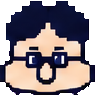
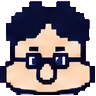
fix(sprites): 원본 외곽선과 색을 보존해 캐릭터 시트 재추출
형섭·경섭·빠맨·쥰희 이동 시트와 초상화를 다시 추출하고, 셀 가장자리 연결 배경 제거 및 최근접 변환으로 도트 손상을 막는다. 방향/캐릭터 매핑과 브라우저 재현 테스트를 추가한다.

Constraint: Preserve supplied character art and existing game IDs/render scale
Confidence: high
Scope-risk: narrow
Not-tested: Legacy smoke scenario is stale (removed merchant script and house map); targeted sprite browser checks pass

diff --git a/tools/sprites/slice_sheet.py b/tools/sprites/slice_sheet.py
@@ -8,8 +8,10 @@
 필요: pip install pillow numpy
 """
 import sys
+from collections import deque
 from PIL import Image
 import numpy as np
+import numpy.typing as npt
 
 # 시트는 '2x 해상도'로 저장한다 (게임은 논리 320x240 을 2배로 렌더). 원본 셀을 DOWN 분의 1로 축소해 그대로 쓴다.
 CELL_TARGET_H = 100      # 시트 '셀' 높이를 이 값(2x px)에 맞춘다 → 기준 시트(셀 199px)는 정확히 1/2 (원본 누끼 그대로). 다른 시트도 같은 비율
@@ -39,18 +41,30 @@ def detect_grid(im):
 EDGE_TRIM = 4            # 셀 테두리 잔선 제거(px)
 
 
-def key_cell(cell):
-    """셀 배경(보라) 제거 → RGBA (테두리 EDGE_TRIM px 는 잘라낸다)"""
+def key_cell(cell: npt.NDArray[np.int64]) -> Image.Image:
+    """가장자리에 연결된 배경만 제거하고 내부 색과 외곽선은 보존한다."""
     cell = cell[EDGE_TRIM:-EDGE_TRIM, EDGE_TRIM:-EDGE_TRIM]
     edge = np.concatenate([cell[2:14, 2:14].reshape(-1, 3), cell[-14:-2, 2:14].reshape(-1, 3),
                            cell[2:14, -14:-2].reshape(-1, 3), cell[-14:-2, -14:-2].reshape(-1, 3)])
     bg = np.median(edge, 0)
     d = np.abs(cell - bg).sum(2)
-    alpha = (d > 90)                              # 하드 누끼 (보라 배경 + 흐린 헤일로 제거)
-    # 1px 침식: 외곽선 바깥의 보라빛 번짐 픽셀을 떼어낸다
-    er = alpha.copy()
-    er[1:, :] &= alpha[:-1, :]; er[:-1, :] &= alpha[1:, :]; er[:, 1:] &= alpha[:, :-1]; er[:, :-1] &= alpha[:, 1:]
-    alpha = er.astype(float)
+    purple_fringe = (cell[..., 0] > cell[..., 1] + 20) & (cell[..., 2] > cell[..., 0] + 20) & (d <= 240)
+    background = (d <= 90) | purple_fringe
+    height, width = background.shape
+    alpha = np.ones((height, width), dtype=np.bool_)
+    pending: deque[tuple[int, int]] = deque()
+    border = [(y, x) for y in range(height) for x in (0, width - 1)]
+    border += [(y, x) for x in range(width) for y in (0, height - 1)]
+    for y, x in border:
+        if background[y, x] and alpha[y, x]:
+            alpha[y, x] = False
+            pending.append((y, x))
+    while pending:
+        y, x = pending.popleft()
+        for ny, nx in ((y - 1, x), (y + 1, x), (y, x - 1), (y, x + 1)):
+            if 0 <= ny < height and 0 <= nx < width and background[ny, nx] and alpha[ny, nx]:
+                alpha[ny, nx] = False
+                pending.append((ny, nx))
     rgb = cell.copy()
     rgb[alpha == 0] = 0                           # 투명 픽셀 색을 0으로 → 축소 시 보라가 섞이지 않음
     rgba = np.dstack([rgb, (alpha * 255)]).astype('uint8')
@@ -75,14 +89,14 @@ def char_crop(cell_rgb):
     a = np.array(rgba)[..., 3]
     ys, xs = np.where(a > 127)
     if len(xs) == 0: return None
-    return rgba.crop((xs.min(), ys.min(), xs.max() + 1, ys.max() + 1))
+    return rgba.crop((int(xs.min()), int(ys.min()), int(xs.max()) + 1, int(ys.max()) + 1))
 
 
 def process_cell(cell_rgb, FW, FH, scale):
     crop = char_crop(cell_rgb)
     if crop is None: return Image.new('RGBA', (FW, FH))
     w = max(1, round(crop.width * scale)); h = max(1, round(crop.height * scale))
-    small = crop.resize((w, h), Image.BOX)              # 정확히 1/N 평균. 색 양자화 없음 (누끼만)
+    small = crop.resize((w, h), Image.Resampling.NEAREST)  # 원본 도트 색을 평균내지 않는다
     a = np.array(small); a[..., 3] = np.where(a[..., 3] > 127, 255, 0); small = Image.fromarray(a, 'RGBA')
     frame = Image.new('RGBA', (FW, FH))
     frame.paste(small, ((FW - w) // 2, FH - h), small)
@@ -93,11 +107,11 @@ def make_portrait(cell_rgb, size=96, head_ratio=0.56):
     rgba = key_cell(cell_rgb)
     a = np.array(rgba)[..., 3]
     ys, xs = np.where(a > 127)
-    crop = rgba.crop((xs.min(), ys.min(), xs.max() + 1, ys.max() + 1))
+    crop = rgba.crop((int(xs.min()), int(ys.min()), int(xs.max()) + 1, int(ys.max()) + 1))
     head = crop.crop((0, 0, crop.width, int(crop.height * head_ratio)))
     scale = min(size / head.width, (size - 2) / head.height)
     w, h = max(1, round(head.width * scale)), max(1, round(head.height * scale))
-    small = head.resize((w, h), Image.BOX)
+    small = head.resize((w, h), Image.Resampling.NEAREST)
     a = np.array(small); a[..., 3] = np.where(a[..., 3] > 127, 255, 0); small = Image.fromarray(a, 'RGBA')
     out = Image.new('RGBA', (size, size))
     out.paste(small, ((size - w) // 2, size - h - 1), small)
@@ -121,7 +135,7 @@ def main():
                 x0, x1 = cols[ci * 4 + f]; y0, y1 = rows[ri]
                 crops[(ri, f)] = char_crop(im[y0:y1, x0:x1])
         cell_h = rows[0][1] - rows[0][0]
-        scale = 1.0 / max(1, round(cell_h / CELL_TARGET_H))   # 정수 분의 1 (기준 시트 = 1/2) → BOX 는 정확한 픽셀 평균
+        scale = 1.0 / max(1, round(cell_h / CELL_TARGET_H))   # 기존 엔진용 크기를 유지하며 최근접 변환
         max_h = max(round(c.height * scale) for c in crops.values() if c is not None)
         max_w = max(round(c.width * scale) for c in crops.values() if c is not None)
         FW = max(MIN_FW, max_w + 2 + (max_w % 2))

diff --git a/tests/sprites/test_slice_sheet.py b/tests/sprites/test_slice_sheet.py
@@ -1,0 +1,92 @@
+import subprocess
+import sys
+from pathlib import Path
+
+import numpy as np
+import pytest
+from PIL import Image
+
+ROOT = Path(__file__).resolve().parents[2]
+sys.path.insert(0, str(ROOT))
+from tools.sprites.slice_sheet import EDGE_TRIM, detect_grid, key_cell, make_portrait, process_cell
+
+
+def test_background_key_preserves_outline_and_enclosed_background_color() -> None:
+    cell = np.full((80, 80, 3), (180, 120, 210), dtype=np.int64)
+    cell[20:60, 20:60] = (20, 20, 30)
+    cell[22:58, 22:58] = (180, 120, 210)
+    result = np.asarray(key_cell(cell))
+    assert result[0, 0, 3] == 0
+    assert np.all(result[16:56, 16:56, 3] == 255)
+    assert tuple(result[30, 30, :3]) == (180, 120, 210)
+
+
+@pytest.mark.parametrize('column', [0, 4, 8])
+def test_source_front_frame_keeps_dark_outline(column: int) -> None:
+    with Image.open(ROOT / 'assets/source/sheet_hyungsub_gyeongsub_ppaman.png') as image:
+        source = np.asarray(image.convert('RGB')).astype(np.int64)
+    columns, rows = detect_grid(source)
+    x0, x1 = columns[column]
+    y0, y1 = rows[0]
+    cell = source[y0:y1, x0:x1]
+    trimmed = cell[EDGE_TRIM:-EDGE_TRIM, EDGE_TRIM:-EDGE_TRIM]
+    result = np.asarray(key_cell(cell))
+    assert np.all(result[..., 3][trimmed.max(axis=2) < 60] == 255)
+
+
+def test_import_resampling_keeps_original_colors() -> None:
+    cell = np.full((80, 80, 3), (180, 120, 210), dtype=np.int64)
+    cell[20:60, 20:60] = (20, 20, 30)
+    cell[22:58, 22:58] = (255, 230, 205)
+    cell[23:57:2, 23:57:2] = (45, 70, 95)
+    colors = set(map(tuple, cell.reshape(-1, 3)))
+    for image in (process_cell(cell, 32, 32, 0.5), make_portrait(cell)):
+        pixels = np.asarray(image)
+        assert set(map(tuple, pixels[..., :3][pixels[..., 3] == 255])) <= colors
+
+
+def test_background_key_removes_purple_fringe_without_eroding_blue_outline() -> None:
+    cell = np.full((80, 80, 3), (191, 131, 248), dtype=np.int64)
+    cell[19:61, 19:61] = (150, 100, 210)
+    cell[20:60, 20:60] = (60, 70, 170)
+    result = np.asarray(key_cell(cell))
+    assert result[15, 20, 3] == 0
+    assert np.all(result[16:56, 16:56, 3] == 255)
+
+
+@pytest.mark.parametrize(('source_name', 'ids'), [
+    ('sheet_hyungsub_gyeongsub_ppaman.png', ('hyungsub', 'gyeongsub', 'ppaman')),
+    ('sheet_junhee.png', ('junhee',)),
+])
+def test_cli_source_sheets_produce_complete_engine_frames(tmp_path: Path, source_name: str, ids: tuple[str, ...]) -> None:
+    source_path = ROOT / 'assets/source' / source_name
+    result = subprocess.run([sys.executable, str(ROOT / 'tools/sprites/slice_sheet.py'), str(source_path), *ids],
+                            cwd=tmp_path, capture_output=True, text=True, check=True)
+    assert 'Traceback' not in result.stderr
+    with Image.open(source_path) as image:
+        source = np.asarray(image.convert('RGB')).astype(np.int64)
+    columns, rows = detect_grid(source)
+    for index, cid in enumerate(ids):
+        with Image.open(tmp_path / 'assets/sprites' / f'{cid}.png') as sheet:
+            assert sheet.mode == 'RGBA'
+            assert sheet.width % 4 == sheet.height % 4 == 0
+            fw, fh = sheet.width // 4, sheet.height // 4
+            for output_row, input_row in enumerate((0, 3, 1, 2)):
+                frames = []
+                for frame in range(4):
+                    actual = sheet.crop((frame * fw, output_row * fh, (frame + 1) * fw, (output_row + 1) * fh))
+                    assert actual.getbbox() is not None
+                    x0, x1 = columns[index * 4 + frame]
+                    y0, y1 = rows[input_row]
+                    cell = source[y0:y1, x0:x1]
+                    scale = 1 / max(1, round((rows[0][1] - rows[0][0]) / 100))
+                    expected = process_cell(cell, fw, fh, scale)
+                    assert actual.tobytes() == expected.tobytes()
+                    pixels = np.asarray(actual)
+                    assert set(np.unique(pixels[..., 3])) <= {0, 255}
+                    assert set(map(tuple, pixels[..., :3][pixels[..., 3] == 255])) <= set(map(tuple, cell.reshape(-1, 3)))
+                    frames.append(actual.tobytes())
+                assert len(set(frames)) > 1
+        with Image.open(tmp_path / 'assets/portraits' / f'{cid}.png') as portrait:
+            assert portrait.mode == 'RGBA' and portrait.size == (96, 96)
+            assert portrait.getbbox() is not None

diff --git a/docs/STATE.md b/docs/STATE.md
@@ -14,7 +14,7 @@
 | 맵(방·거실…) | `assets/maps/<id>.json` (+`index.json`) | 에디터(`/editor.html`)나 JSON 직접 편집. 타일맵(`rows`) 또는 이미지맵(`image`+`walkable/solids`). 소품은 `entities` 의 `type:'prop'` |
 | 타일 그림 | `assets/tiles/<name>.png` 32×32 | `tools/art/room_set.py` 로 생성(직접 그린 픽셀아트). 새 타일은 `src/world/tiles.js` 에 `registerTile` 한 줄 |
 | 가구/소품 그림 | `assets/props/*.png` | `tools/art/room_set.py`(방) / `tools/art/living_set.py`(복도·거실·부엌) 의 `prop_*` 함수. 실행은 `/usr/bin/python3`(PIL 있음) |
-| 캐릭터 스프라이트 | `assets/sprites/<id>.png` (4열×4행, 2x) | 사용자가 준 AI 시트를 `tools/sprites/slice_sheet.py` 로 1/2 누끼 변환. **축소·양자화 금지** |
+| 캐릭터 스프라이트 | `assets/sprites/<id>.png` (4열×4행, 2x) | `tools/sprites/slice_sheet.py` 로 원본에서 재추출. 가장자리 연결 배경만 제거, 기존 엔진용 배율은 최근접 변환. **추가 축소·색 평균·양자화 금지** |
 | 캐릭터 정의 | `src/data/characters.js` | 이름/목소리/팔레트. 형섭은 `self`(이름·초상화 없음) |
 | 대사 | `src/data/scripts.js` | 키 = 상호작용/트리거의 `script`. 태그 `{w=} {s=} {c=} {shake} {wave}` |
 | 컷신 | `src/data/cutscenes/*.js` | `/cutscene` 스킬. 노드 레퍼런스 `src/ui/cutscene.js` 상단 |
@@ -25,7 +25,7 @@
 | 델타룬 에셋 라이브러리 | `assets/library/deltarune/{sprites,maps}` | 참고·소품용. **배경/타일은 직접 그린 것을 쓴다**(사용자 요구) |
 
 ## 지금까지 확정된 규칙 (사용자 피드백)
-- 에셋은 **그대로**: 스프라이트 축소/색 양자화 금지, 합성 목소리는 싫어함 → 유튜브/게임 원본 소리 사용.
+- 에셋은 **그대로**: 원본 시트를 보존하고 게임용 추출 이후 추가 축소/색 양자화를 하지 않는다. 추출 시에도 외곽선 침식·색 평균 금지. 합성 목소리는 싫어함 → 유튜브/게임 원본 소리 사용.
 - 델타룬 이미지를 통째로 가져오지 말고 **같은 퀄리티로 직접 그린** 타일/소품으로 맵 구성 (`tools/art/`).
 - 형섭 대사는 나레이션처럼(이름·초상화 없음, narrator 목소리).
 - 기본 이동 = 달리기, X/Shift = 천천히. C 확인, X 취소, Esc 타이틀, V 메뉴, T(타이틀) 테스트룸, F1 디버그(오디오 상태 포함).
@@ -50,5 +50,9 @@
 - 검증 스크립트: `tests/playtest/house.mjs` (방→복도→거실 전 동선·상호작용·재진입 19개 체크).
 
 ## 검증 방법
+스프라이트: `uv run --with pillow --with numpy --with pytest pytest tests/sprites -q` (배경·외곽선·원본 색·프레임 계약 회귀). `node tests/playtest/sprites.mjs` (서버 8765, 형섭·경섭·빠맨·쥰희 4방향×4프레임, 대화창 인물 연결, PNG 로딩). 원본 3인 시트 왼쪽부터 `hyungsub/gyeongsub/ppaman`, 돼지 별도 시트는 `junhee`다. 재추출 명령은 README의 '캐릭터 시트 재추출' 참고.
+
+2026-09-09 재추출 검증: 스프라이트 회귀 8개·기존 유닛 32개 통과, 실제 브라우저에서 4명 이동/대화창 확인. 구형 `smoke.mjs`는 현재 없는 `merchant` 스크립트와 `house` 맵을 참조해 런타임 오류가 난다(스프라이트 변경과 무관한 기존 테스트 문제). 스프라이트 확인은 `sprites.mjs`, 집 동선은 `house.mjs` 사용.
+
 `node --test 'tests/unit/*.test.mjs'` · `node tests/playtest/house.mjs`(집 동선) · `node tests/playtest/cutscene.mjs opening` (스크린샷 `tests/playtest/shots/`). 헤드리스 크로미움: `~/Library/Caches/ms-playwright/chromium_headless_shell-*/…/chrome-headless-shell` (CHROME_EXE). `playwright-core` 는 프로젝트에 없음 — 세션 스크래치 `pw/node_modules` 가 있는 폴더에 스크립트를 복사해 실행(`SHOT_DIR` 로 스크린샷 위치 지정).
 UI 확인: 스크린샷 **네 모서리 + 전환 순간**을 보고 끝낸다(ㄱ자 맵의 벽 바깥 검은 영역은 델타룬과 같은 정상 표현, 바닥 아래로 검은 띠가 보이면 버그).
